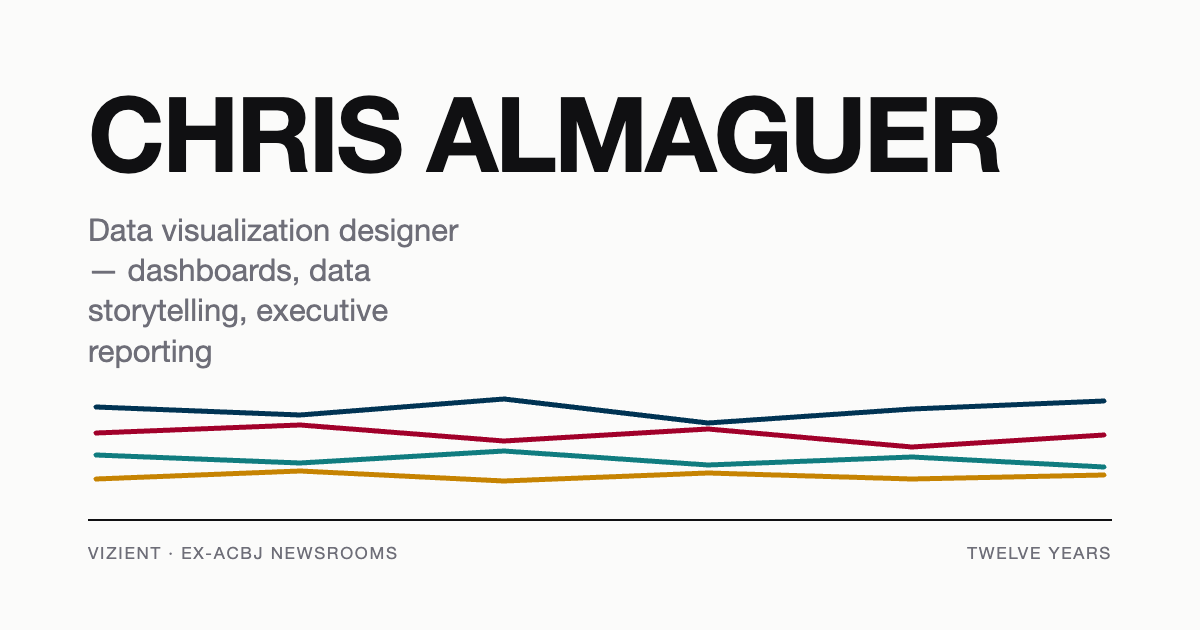
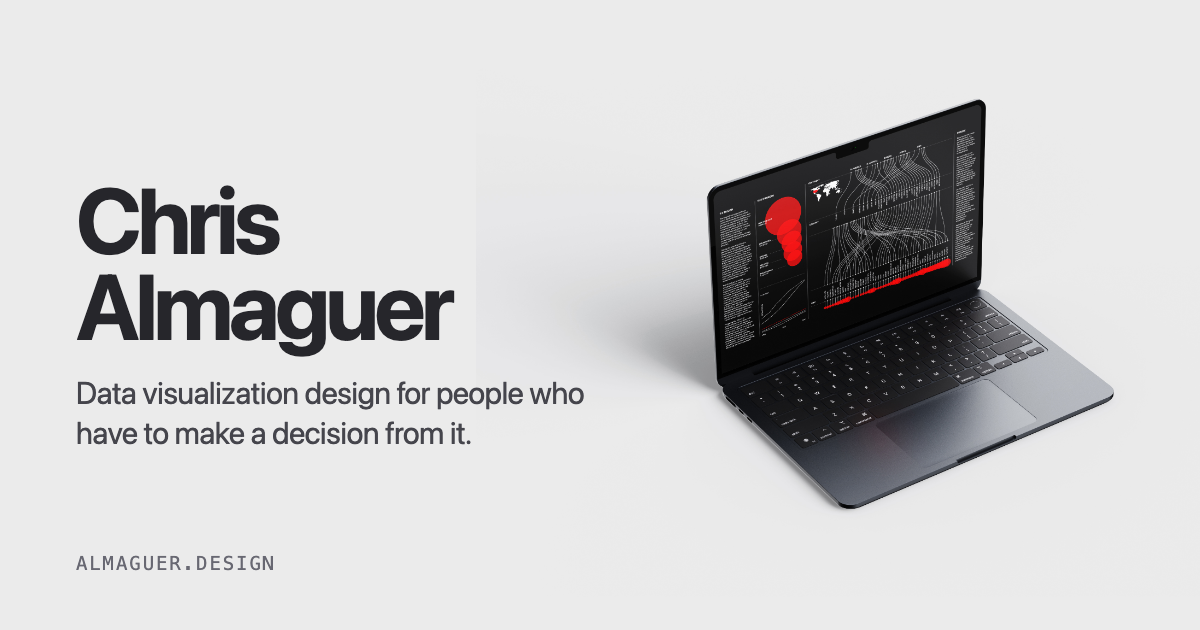
Social card is now the alluvial laptop mockup with the name set beside it
The previous card put the subtitle and footer at sizes that dissolved when
LinkedIn renders the card at feed width. This one carries the name at 92px,
one legible line, and the work itself. Canvas matched to the mockup's own
#ebebeb so there is no seam. og:image URL versioned to force a re-scrape.

Changed region(s): [[0.0617, 0.1508, 0.925, 0.9048], [0.8017, 0.8746, 0.925, 0.9048]]

diff --git a/work/medical-mental-health.html b/work/medical-mental-health.html
@@ -12,11 +12,11 @@
 <meta property="og:title" content="Medical student mental health - Chris Almaguer">
 <meta property="og:description" content="A heat map study of medical student burnout and anxiety, built in Tableau for the Cleartelligence Chart Champ competition.">
 <meta property="og:url" content="https://almaguer.design/work/medical-mental-health.html">
-<meta property="og:image" content="https://almaguer.design/assets/img/og.png">
+<meta property="og:image" content="https://almaguer.design/assets/img/og.png?v=2">
 <meta property="og:image:width" content="1200">
 <meta property="og:image:height" content="630">
-<meta property="og:image:alt" content="Chris Almaguer, data visualization designer. A four-series line chart beneath the name, with the note: Vizient, ex-ACBJ newsrooms, twelve years.">
-<meta name="twitter:image" content="https://almaguer.design/assets/img/og.png">
+<meta property="og:image:alt" content="Chris Almaguer, data visualization designer. The 7.9 billion alluvial broadsheet shown on a laptop beside the name.">
+<meta name="twitter:image" content="https://almaguer.design/assets/img/og.png?v=2">
 <link rel="canonical" href="https://almaguer.design/work/medical-mental-health.html">
 <meta name="twitter:card" content="summary_large_image">
 <meta name="twitter:title" content="Medical student mental health - Chris Almaguer">

diff --git a/work/editorial.html b/work/editorial.html
@@ -12,11 +12,11 @@
 <meta property="og:title" content="Editorial data visualization - Chris Almaguer">
 <meta property="og:description" content="Newsroom data graphics for three California business journals - weekly list pages, scrolling data features, and quarterly market charts.">
 <meta property="og:url" content="https://almaguer.design/work/editorial.html">
-<meta property="og:image" content="https://almaguer.design/assets/img/og.png">
+<meta property="og:image" content="https://almaguer.design/assets/img/og.png?v=2">
 <meta property="og:image:width" content="1200">
 <meta property="og:image:height" content="630">
-<meta property="og:image:alt" content="Chris Almaguer, data visualization designer. A four-series line chart beneath the name, with the note: Vizient, ex-ACBJ newsrooms, twelve years.">
-<meta name="twitter:image" content="https://almaguer.design/assets/img/og.png">
+<meta property="og:image:alt" content="Chris Almaguer, data visualization designer. The 7.9 billion alluvial broadsheet shown on a laptop beside the name.">
+<meta name="twitter:image" content="https://almaguer.design/assets/img/og.png?v=2">
 <link rel="canonical" href="https://almaguer.design/work/editorial.html">
 <meta name="twitter:card" content="summary_large_image">
 <meta name="twitter:title" content="Editorial data visualization - Chris Almaguer">

diff --git a/work/overpopulation.html b/work/overpopulation.html
@@ -12,11 +12,11 @@
 <meta property="og:title" content="7.9 billion - Chris Almaguer">
 <meta property="og:description" content="A broadsheet on world population: an alluvial diagram tying five continents through thirty-three countries to fifty cities, built in Illustrator.">
 <meta property="og:url" content="https://almaguer.design/work/overpopulation.html">
-<meta property="og:image" content="https://almaguer.design/assets/img/og.png">
+<meta property="og:image" content="https://almaguer.design/assets/img/og.png?v=2">
 <meta property="og:image:width" content="1200">
 <meta property="og:image:height" content="630">
-<meta property="og:image:alt" content="Chris Almaguer, data visualization designer. A four-series line chart beneath the name, with the note: Vizient, ex-ACBJ newsrooms, twelve years.">
-<meta name="twitter:image" content="https://almaguer.design/assets/img/og.png">
+<meta property="og:image:alt" content="Chris Almaguer, data visualization designer. The 7.9 billion alluvial broadsheet shown on a laptop beside the name.">
+<meta name="twitter:image" content="https://almaguer.design/assets/img/og.png?v=2">
 <link rel="canonical" href="https://almaguer.design/work/overpopulation.html">
 <meta name="twitter:card" content="summary_large_image">
 <meta name="twitter:title" content="7.9 billion - Chris Almaguer">

diff --git a/work/color-safety-lens.html b/work/color-safety-lens.html
@@ -12,11 +12,11 @@
 <meta property="og:title" content="Color Safety Lens - Chris Almaguer">
 <meta property="og:description" content="A palette auditor: WCAG contrast across tint ramps and color-vision simulation, with the color maths running live in the page.">
 <meta property="og:url" content="https://almaguer.design/work/color-safety-lens.html">
-<meta property="og:image" content="https://almaguer.design/assets/img/og.png">
+<meta property="og:image" content="https://almaguer.design/assets/img/og.png?v=2">
 <meta property="og:image:width" content="1200">
 <meta property="og:image:height" content="630">
-<meta property="og:image:alt" content="Chris Almaguer, data visualization designer. A four-series line chart beneath the name, with the note: Vizient, ex-ACBJ newsrooms, twelve years.">
-<meta name="twitter:image" content="https://almaguer.design/assets/img/og.png">
+<meta property="og:image:alt" content="Chris Almaguer, data visualization designer. The 7.9 billion alluvial broadsheet shown on a laptop beside the name.">
+<meta name="twitter:image" content="https://almaguer.design/assets/img/og.png?v=2">
 <link rel="canonical" href="https://almaguer.design/work/color-safety-lens.html">
 <meta name="twitter:card" content="summary_large_image">
 <meta name="twitter:title" content="Color Safety Lens - Chris Almaguer">

diff --git a/work/lap-times.html b/work/lap-times.html
@@ -12,11 +12,11 @@
 <meta property="og:title" content="115 laps at Thunderhill - Chris Almaguer">
 <meta property="og:description" content="A year of personal track telemetry, 1:39 down to 1:28, and what redesigning my own chart taught me about reading my own work.">
 <meta property="og:url" content="https://almaguer.design/work/lap-times.html">
-<meta property="og:image" content="https://almaguer.design/assets/img/og.png">
+<meta property="og:image" content="https://almaguer.design/assets/img/og.png?v=2">
 <meta property="og:image:width" content="1200">
 <meta property="og:image:height" content="630">
-<meta property="og:image:alt" content="Chris Almaguer, data visualization designer. A four-series line chart beneath the name, with the note: Vizient, ex-ACBJ newsrooms, twelve years.">
-<meta name="twitter:image" content="https://almaguer.design/assets/img/og.png">
+<meta property="og:image:alt" content="Chris Almaguer, data visualization designer. The 7.9 billion alluvial broadsheet shown on a laptop beside the name.">
+<meta name="twitter:image" content="https://almaguer.design/assets/img/og.png?v=2">
 <link rel="canonical" href="https://almaguer.design/work/lap-times.html">
 <meta name="twitter:card" content="summary_large_image">
 <meta name="twitter:title" content="115 laps at Thunderhill - Chris Almaguer">

diff --git a/index.html b/index.html
@@ -12,11 +12,11 @@
 <meta property="og:title" content="Chris Almaguer - Data Visualization Designer">
 <meta property="og:description" content="Senior data visualization designer. 12 years across newsrooms and enterprise healthcare analytics. Dashboards, design systems, and accessible color.">
 <meta property="og:url" content="https://almaguer.design/">
-<meta property="og:image" content="https://almaguer.design/assets/img/og.png">
+<meta property="og:image" content="https://almaguer.design/assets/img/og.png?v=2">
 <meta property="og:image:width" content="1200">
 <meta property="og:image:height" content="630">
-<meta property="og:image:alt" content="Chris Almaguer, data visualization designer. A four-series line chart beneath the name, with the note: Vizient, ex-ACBJ newsrooms, twelve years.">
-<meta name="twitter:image" content="https://almaguer.design/assets/img/og.png">
+<meta property="og:image:alt" content="Chris Almaguer, data visualization designer. The 7.9 billion alluvial broadsheet shown on a laptop beside the name.">
+<meta name="twitter:image" content="https://almaguer.design/assets/img/og.png?v=2">
 <link rel="canonical" href="https://almaguer.design/">
 <meta name="twitter:card" content="summary_large_image">
 <meta name="twitter:title" content="Chris Almaguer - Data Visualization Designer">

diff --git a/work/gas-prices.html b/work/gas-prices.html
@@ -12,11 +12,11 @@
 <meta property="og:title" content="Global gas prices - Chris Almaguer">
 <meta property="og:description" content="An interactive R and Leaflet study of global gas prices, and what it took to get a vibe-coded map to look designed.">
 <meta property="og:url" content="https://almaguer.design/work/gas-prices.html">
-<meta property="og:image" content="https://almaguer.design/assets/img/og.png">
+<meta property="og:image" content="https://almaguer.design/assets/img/og.png?v=2">
 <meta property="og:image:width" content="1200">
 <meta property="og:image:height" content="630">
-<meta property="og:image:alt" content="Chris Almaguer, data visualization designer. A four-series line chart beneath the name, with the note: Vizient, ex-ACBJ newsrooms, twelve years.">
-<meta name="twitter:image" content="https://almaguer.design/assets/img/og.png">
+<meta property="og:image:alt" content="Chris Almaguer, data visualization designer. The 7.9 billion alluvial broadsheet shown on a laptop beside the name.">
+<meta name="twitter:image" content="https://almaguer.design/assets/img/og.png?v=2">
 <link rel="canonical" href="https://almaguer.design/work/gas-prices.html">
 <meta name="twitter:card" content="summary_large_image">
 <meta name="twitter:title" content="Global gas prices - Chris Almaguer">

diff --git a/work/diskmap.html b/work/diskmap.html
@@ -12,11 +12,11 @@
 <meta property="og:title" content="Disk Map - Chris Almaguer">
 <meta property="og:description" content="A disk-cleanup advisor given file metadata and never file contents, and the context-window bug that hid its own rules.">
 <meta property="og:url" content="https://almaguer.design/work/diskmap.html">
-<meta property="og:image" content="https://almaguer.design/assets/img/og.png">
+<meta property="og:image" content="https://almaguer.design/assets/img/og.png?v=2">
 <meta property="og:image:width" content="1200">
 <meta property="og:image:height" content="630">
-<meta property="og:image:alt" content="Chris Almaguer, data visualization designer. A four-series line chart beneath the name, with the note: Vizient, ex-ACBJ newsrooms, twelve years.">
-<meta name="twitter:image" content="https://almaguer.design/assets/img/og.png">
+<meta property="og:image:alt" content="Chris Almaguer, data visualization designer. The 7.9 billion alluvial broadsheet shown on a laptop beside the name.">
+<meta name="twitter:image" content="https://almaguer.design/assets/img/og.png?v=2">
 <link rel="canonical" href="https://almaguer.design/work/diskmap.html">
 <meta name="twitter:card" content="summary_large_image">
 <meta name="twitter:title" content="Disk Map - Chris Almaguer">

diff --git a/work/mybeats.html b/work/mybeats.html
@@ -12,11 +12,11 @@
 <meta property="og:title" content="MyBEATS - Chris Almaguer">
 <meta property="og:description" content="Tagging a 16,000-track library with a local model, and why the model size was chosen by where it starts inventing.">
 <meta property="og:url" content="https://almaguer.design/work/mybeats.html">
-<meta property="og:image" content="https://almaguer.design/assets/img/og.png">
+<meta property="og:image" content="https://almaguer.design/assets/img/og.png?v=2">
 <meta property="og:image:width" content="1200">
 <meta property="og:image:height" content="630">
-<meta property="og:image:alt" content="Chris Almaguer, data visualization designer. A four-series line chart beneath the name, with the note: Vizient, ex-ACBJ newsrooms, twelve years.">
-<meta name="twitter:image" content="https://almaguer.design/assets/img/og.png">
+<meta property="og:image:alt" content="Chris Almaguer, data visualization designer. The 7.9 billion alluvial broadsheet shown on a laptop beside the name.">
+<meta name="twitter:image" content="https://almaguer.design/assets/img/og.png?v=2">
 <link rel="canonical" href="https://almaguer.design/work/mybeats.html">
 <meta name="twitter:card" content="summary_large_image">
 <meta name="twitter:title" content="MyBEATS - Chris Almaguer">

diff --git a/about.html b/about.html
@@ -12,11 +12,11 @@
 <meta property="og:title" content="About - Chris Almaguer">
 <meta property="og:description" content="Senior data visualization designer. Twelve years from print production to daily newsrooms to enterprise healthcare analytics.">
 <meta property="og:url" content="https://almaguer.design/about.html">
-<meta property="og:image" content="https://almaguer.design/assets/img/og.png">
+<meta property="og:image" content="https://almaguer.design/assets/img/og.png?v=2">
 <meta property="og:image:width" content="1200">
 <meta property="og:image:height" content="630">
-<meta property="og:image:alt" content="Chris Almaguer, data visualization designer. A four-series line chart beneath the name, with the note: Vizient, ex-ACBJ newsrooms, twelve years.">
-<meta name="twitter:image" content="https://almaguer.design/assets/img/og.png">
+<meta property="og:image:alt" content="Chris Almaguer, data visualization designer. The 7.9 billion alluvial broadsheet shown on a laptop beside the name.">
+<meta name="twitter:image" content="https://almaguer.design/assets/img/og.png?v=2">
 <link rel="canonical" href="https://almaguer.design/about.html">
 <meta name="twitter:card" content="summary_large_image">
 <meta name="twitter:title" content="About - Chris Almaguer">

diff --git a/work/editorial-design.html b/work/editorial-design.html
@@ -12,11 +12,11 @@
 <meta property="og:title" content="Editorial page design - Chris Almaguer">
 <meta property="og:description" content="Covers, feature spreads and pages in print for three California business journals.">
 <meta property="og:url" content="https://almaguer.design/work/editorial-design.html">
-<meta property="og:image" content="https://almaguer.design/assets/img/og.png">
+<meta property="og:image" content="https://almaguer.design/assets/img/og.png?v=2">
 <meta property="og:image:width" content="1200">
 <meta property="og:image:height" content="630">
-<meta property="og:image:alt" content="Chris Almaguer, data visualization designer. A four-series line chart beneath the name, with the note: Vizient, ex-ACBJ newsrooms, twelve years.">
-<meta name="twitter:image" content="https://almaguer.design/assets/img/og.png">
+<meta property="og:image:alt" content="Chris Almaguer, data visualization designer. The 7.9 billion alluvial broadsheet shown on a laptop beside the name.">
+<meta name="twitter:image" content="https://almaguer.design/assets/img/og.png?v=2">
 <link rel="canonical" href="https://almaguer.design/work/editorial-design.html">
 <meta name="author" content="Chris Almaguer">
 <script>

diff --git a/work/branding.html b/work/branding.html
@@ -12,11 +12,11 @@
 <meta property="og:title" content="Identity and branding - Chris Almaguer">
 <meta property="og:description" content="A full branding study for Los Canelo's Birria and a mark for Bone Pit Smoke House.">
 <meta property="og:url" content="https://almaguer.design/work/branding.html">
-<meta property="og:image" content="https://almaguer.design/assets/img/og.png">
+<meta property="og:image" content="https://almaguer.design/assets/img/og.png?v=2">
 <meta property="og:image:width" content="1200">
 <meta property="og:image:height" content="630">
-<meta property="og:image:alt" content="Chris Almaguer, data visualization designer. A four-series line chart beneath the name, with the note: Vizient, ex-ACBJ newsrooms, twelve years.">
-<meta name="twitter:image" content="https://almaguer.design/assets/img/og.png">
+<meta property="og:image:alt" content="Chris Almaguer, data visualization designer. The 7.9 billion alluvial broadsheet shown on a laptop beside the name.">
+<meta name="twitter:image" content="https://almaguer.design/assets/img/og.png?v=2">
 <link rel="canonical" href="https://almaguer.design/work/branding.html">
 <meta name="author" content="Chris Almaguer">
 <script>
